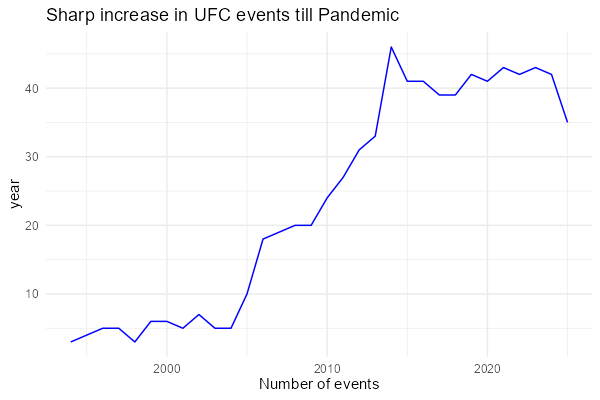
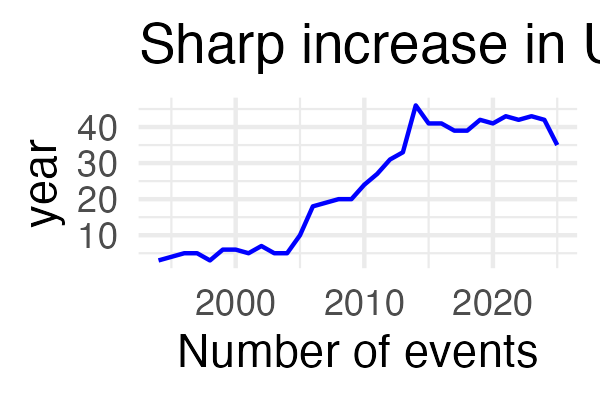
update

diff --git a/Projects/46Cent/Tobias/tobisolution.md b/Projects/46Cent/Tobias/tobisolution.md
@@ -2,7 +2,7 @@
 
 ## Data Import
 
-    ufcevents <- readr::read_csv("Events.csv")
+    ufcevents <- read_csv("../Events.csv")
 
     ## Rows: 750 Columns: 4
     ## ── Column specification ────────────────────────────────────────────────────────
@@ -13,7 +13,7 @@
     ## ℹ Use `spec()` to retrieve the full column specification for this data.
     ## ℹ Specify the column types or set `show_col_types = FALSE` to quiet this message.
 
-    ufcfightersstat <- readr::read_csv("Fighters stats.csv")
+    ufcfightersstat <- read_csv("../Fighters stats.csv")
 
     ## Rows: 2586 Columns: 28
     ## ── Column specification ────────────────────────────────────────────────────────
@@ -25,7 +25,7 @@
     ## ℹ Use `spec()` to retrieve the full column specification for this data.
     ## ℹ Specify the column types or set `show_col_types = FALSE` to quiet this message.
 
-    ufcfighters <- readr::read_csv("fighters.csv")
+    ufcfighters <- read_csv("../fighters.csv")
 
     ## Rows: 4443 Columns: 10
     ## ── Column specification ────────────────────────────────────────────────────────
@@ -37,7 +37,7 @@
     ## ℹ Use `spec()` to retrieve the full column specification for this data.
     ## ℹ Specify the column types or set `show_col_types = FALSE` to quiet this message.
 
-    ufcfights <- readr::read_csv("Fights.csv")
+    ufcfights <- read_csv("../Fights.csv")
 
     ## Rows: 8381 Columns: 44
     ## ── Column specification ────────────────────────────────────────────────────────
@@ -56,26 +56,31 @@ same chunk.
 
 ### First Visualization:
 
+Das Problem ist, dass die Namen zu lang sind um im Plot darstellbar zu
+sein. Daher bediene ich mich einer Tabelle und einer Codierung, um die
+Namen der in ihrer Gewichtsklasse jeweils besten Kämpfer aufzulisten.
+
     # hier haben wir das wlratio berechnet
     ufcfigtherswl <- ufcfightersstat %>%
-      mutate(wlratio = W / (W + L) ) %>%
+      mutate(wlratio = (W+1) / (W + L +2) ) %>%
       group_by(Weight_Class) %>%
       summarise(mean_wlratio = mean(wlratio, na.rm = TRUE))
     # hier haben wir den jeweils stärksten rausgefiltert:
     ufc_top_per_class <- ufcfightersstat %>%
-      mutate(wlratio = W / (W + L)) %>%
+      mutate(wlratio = (W+1) / (W + L +2)) %>%
       group_by(Weight_Class) %>%
       slice_max(wlratio, n = 1, with_ties = FALSE)
     # Zusammenführen der Tabellen:
     ufc_combined <- ufc_top_per_class %>%
-      select(Weight_Class, Fighter = `Full Name`, fighter_wlratio = wlratio) %>%
+      ungroup() %>% 
+      mutate(Fighter_Code = row_number()) %>%
+      select(Weight_Class, Fighter = `Full Name`, fighter_wlratio = wlratio, Fighter_Code) %>%
       left_join(ufcfigtherswl, by = "Weight_Class") %>%
       filter(!Weight_Class%in% c("Women's Bantamweight",
                                  "Women's Featherweight",
                                  "Women's Flyweight",
-                                 "Women's Strawweight"))
-    # Daten in long format:
-    plotdata <- ufc_combined %>%
+                                 "Women's Strawweight",
+                                 "Open Weight")) %>%
       pivot_longer(cols = c(fighter_wlratio, mean_wlratio),
                    names_to = "Type",
                    values_to = "Value") %>%
@@ -83,45 +88,116 @@ same chunk.
                            "fighter_wlratio" = "Top Fighter",
                            "mean_wlratio" = "Class Mean"))
 
-    ggplot(plotdata, aes(x = Weight_Class, y = Value, fill = Type))+
+    ggplot(ufc_combined, aes(x = Weight_Class, y = Value, fill = Type))+
       geom_col(position = position_dodge())+
+      geom_text(
+        data = subset(ufc_combined, Type == "Top Fighter"),
+        aes(label = Fighter_Code),
+        position = position_dodge(width = 0.9), 
+        vjust = 0.5,   # Vertikale Zentrierung
+        color = "black", 
+        fontface = "bold",
+        size = 4
+      )+
       labs(
         title = "W/L Ratio: Top Fighter vs. Class Mean",
         x = "Weight Class",
         y = "W/L Ratio",
-      fill = ""
+        fill = ""
       )+
       theme_minimal()+
-      theme(axis.text = element_text(angle = 45, hjust = 1))
+      theme(axis.text.x = element_text(angle = 45, hjust = 1))
 
-![](plots/tobivis1.png)
+![](tobisolution_files/figure-markdown_strict/wlratio-1.png)
 
     ggsave("tobivis1.png", path = "./plots", width = 600, height = 400, units = ("px"), dpi = 300)
+
+In der folgenden Legende ist der jeweilige Spitzenreiter in seiner
+Gewichtsklasse aufgelistet:
+
+    fighter_codes_legend <- ufc_combined %>%
+      select(Code = Fighter_Code, Klasse = Weight_Class, Kämpfer = Fighter)
+
+    print(fighter_codes_legend)
+
+    ## # A tibble: 18 × 3
+    ##     Code Klasse            Kämpfer            
+    ##    <int> <chr>             <chr>              
+    ##  1     1 Bantamweight      Malcolm Wellmaker  
+    ##  2     1 Bantamweight      Malcolm Wellmaker  
+    ##  3     2 Catch Weight      Khamzat Chimaev    
+    ##  4     2 Catch Weight      Khamzat Chimaev    
+    ##  5     3 Featherweight     Movsar Evloev      
+    ##  6     3 Featherweight     Movsar Evloev      
+    ##  7     4 Flyweight         Rafael Estevam     
+    ##  8     4 Flyweight         Rafael Estevam     
+    ##  9     5 Heavyweight       Jon Jones          
+    ## 10     5 Heavyweight       Jon Jones          
+    ## 11     6 Light Heavyweight Azamat Murzakanov  
+    ## 12     6 Light Heavyweight Azamat Murzakanov  
+    ## 13     7 Lightweight       Khabib Nurmagomedov
+    ## 14     7 Lightweight       Khabib Nurmagomedov
+    ## 15     8 Middleweight      Phillip Miller     
+    ## 16     8 Middleweight      Phillip Miller     
+    ## 17    10 Welterweight      Shavkat Rakhmonov  
+    ## 18    10 Welterweight      Shavkat Rakhmonov
 
 ### Second Visualization:
 
     ufcfigthershtoreach <- ufcfighters %>%
       mutate(
-        heighttoreach = Ht. / Reach, na.rm = TRUE
+        reachtoheigth = Reach / Ht., na.rm = TRUE
       ) %>%
       mutate(
-        wlratio = W / (W+L)
+        wlratio = (W+1) / (W + L +2)
       )
-      
 
-    ggplot(ufcfigthershtoreach,aes(x = heighttoreach, y = wlratio))+
+    ggplot(ufcfigthershtoreach,aes(x = reachtoheigth, y = wlratio))+
       geom_point()+
       geom_smooth()+
       labs(
         title = "Longer arms don't necessarily help figthers to win",
         caption = "Ploting by Tobias Tuchel. Data from UFC",
-        x = "Win / Loose Ratio",
-        y = "Height to reach Ratio"
-      )
+        x = "Reach to heigth Ratio",
+        y = "Win / Loose Ratio"
+      )+
+      geom_text(
+        data = ufcfigthershtoreach %>%
+          slice_max(reachtoheigth, n = 1, with_ties = FALSE),
+                    aes(label = `Full Name`),
+        vjust = 0,
+        hjust = 0.8,
+        color = "white"
+      )+
+      geom_text(
+        data = ufcfigthershtoreach %>%
+          slice_min(reachtoheigth, n = 1, with_ties = FALSE),
+        aes(label = `Full Name`),
+        vjust = 0,
+        hjust = 0,
+        color = "white"
+      )+
+      geom_text(
+        data = ufcfigthershtoreach %>%
+          slice_min(wlratio, n = 1, with_ties = FALSE),
+        aes(label = `Full Name`),
+        vjust = 0,
+        hjust = 0,
+        color = "white"
+      )+
+      geom_text(
+        data = ufcfigthershtoreach %>%
+          slice_max(wlratio, n = 1, with_ties = FALSE),
+        aes(label = `Full Name`),
+        vjust = 0,
+        hjust = 0,
+        color = "white"
+      )+
+        theme_dark()
 
     ## `geom_smooth()` using method = 'gam' and formula = 'y ~ s(x, bs = "cs")'
 
-![](plots/tobivis2.png)
+![](tobisolution_files/figure-markdown_strict/graph2-1.png)
 
     ggsave("tobivis2.png", path = "./plots", width = 600, height = 400, units = ("px"), dpi = 300)
 
@@ -134,21 +210,17 @@ same chunk.
                into = c("City", "State", "Country"),
                sep = ",\\s*",
                fill = "left",
-               extra = "merge")
-
-    ufccountrygroups <- ufccountry %>%
+               extra = "merge") %>%
       group_by(Country) %>%
       summarise(n = n()) %>%
       arrange(desc(n)) 
 
     library(maps)
 
-    ## Warning: Paket 'maps' wurde unter R Version 4.5.2 erstellt
-
     ## 
-    ## Attache Paket: 'maps'
+    ## Attaching package: 'maps'
 
-    ## Das folgende Objekt ist maskiert 'package:purrr':
+    ## The following object is masked from 'package:purrr':
     ## 
     ##     map
 
@@ -156,15 +228,16 @@ same chunk.
     world <- map_data("world")
     # Joining:
     events_world_map <- world %>%
-      left_join(ufccountrygroups, by = c("region" = "Country"))
+      left_join(ufccountry, by = c("region" = "Country"))
     # Plotten:
     ggplot(events_world_map, aes(x= long, y = lat, group = group, fill = n))+
       geom_polygon(color = "black")+
-      scale_fill_continuous(name = "Number of Events", na.value = "white")+
+      scale_fill_gradient(name = "Number of Events", na.value = "white", 
+                          low = "yellow", high = "red")+
       theme_minimal()+
       labs(title = "Most UFC events in US")
 
-![](plots/tobivis3.png)
+![](tobisolution_files/figure-markdown_strict/thirdgraph-1.png)
 
     ggsave("tobivis3.png", path = "./plots", width = 600, height = 400, units = ("px"), dpi = 300)
 
@@ -175,22 +248,27 @@ nicht schlau, Feedback ist gegeben. Der jetzige Graph macht so nämlich
 keinen Sinn.
 
     ufcmethod <- ufcfights %>%
-      group_by(Method) %>%
+      mutate(
+        Aggregated_Method = case_when(
+          grepl("KO/TKO|KO/TKO Punches|KO/TKO Punch", Method) ~ "Knockout (KO/TKO)",
+          grepl("U-DEC|S-DEC|M-DEC", Method) ~ "Decision (U/S/M)",
+          grepl("SUB|Sub", Method) ~ "Submission",
+          TRUE ~ as.character(Method)
+        )
+      ) %>%
+      group_by(Aggregated_Method) %>%
       summarise(n = n()) %>%
-      arrange(desc(n))
-
-    graph <- ufcmethod %>%
-      filter(Method %in% c("KO/TKO Punch", "KO/TKO Punches", "Submission",
-                           "Doctor Stoppage", "Decision", "Draw", "Disqualification")) %>%
-      ggplot(aes(x = reorder(Method, n), y = n)) +
-      geom_col(fill = "blue") +
+      slice_max(n, n = 10) %>%
+      ggplot(aes(x = reorder(Aggregated_Method, n), y = n)) +
+      geom_col(fill = "darkgreen") + 
+      theme_minimal() + 
       theme(axis.text.x = element_text(angle = 45, hjust = 1))+
-      labs(x = "Method",
-           y = "Number",
-           title = "Most Knock-outs in UFC through ")
-    print(graph)
+      labs(x = "Methoden-Kategorie",
+           y = "Anzahl der Kämpfe",
+           title = "Most UFC fights end decided")
+    print(ufcmethod)
 
-![](plots/tobivis4.png)
+![](tobisolution_files/figure-markdown_strict/fourthgraph-1.png)
 
     ggsave("tobivis4.png", path = "./plots", width = 600, height = 400, units = ("px"), dpi = 300)
 
@@ -209,6 +287,6 @@ keinen Sinn.
            title = "Sharp increase in UFC events till Pandemic")+
       theme_minimal()
 
-![](plots/tobivis5.png)
+![](tobisolution_files/figure-markdown_strict/graphfive-1.png)
 
     ggsave("tobivis5.png", path = "./plots", width = 600, height = 400, units = ("px"), dpi = 300)
